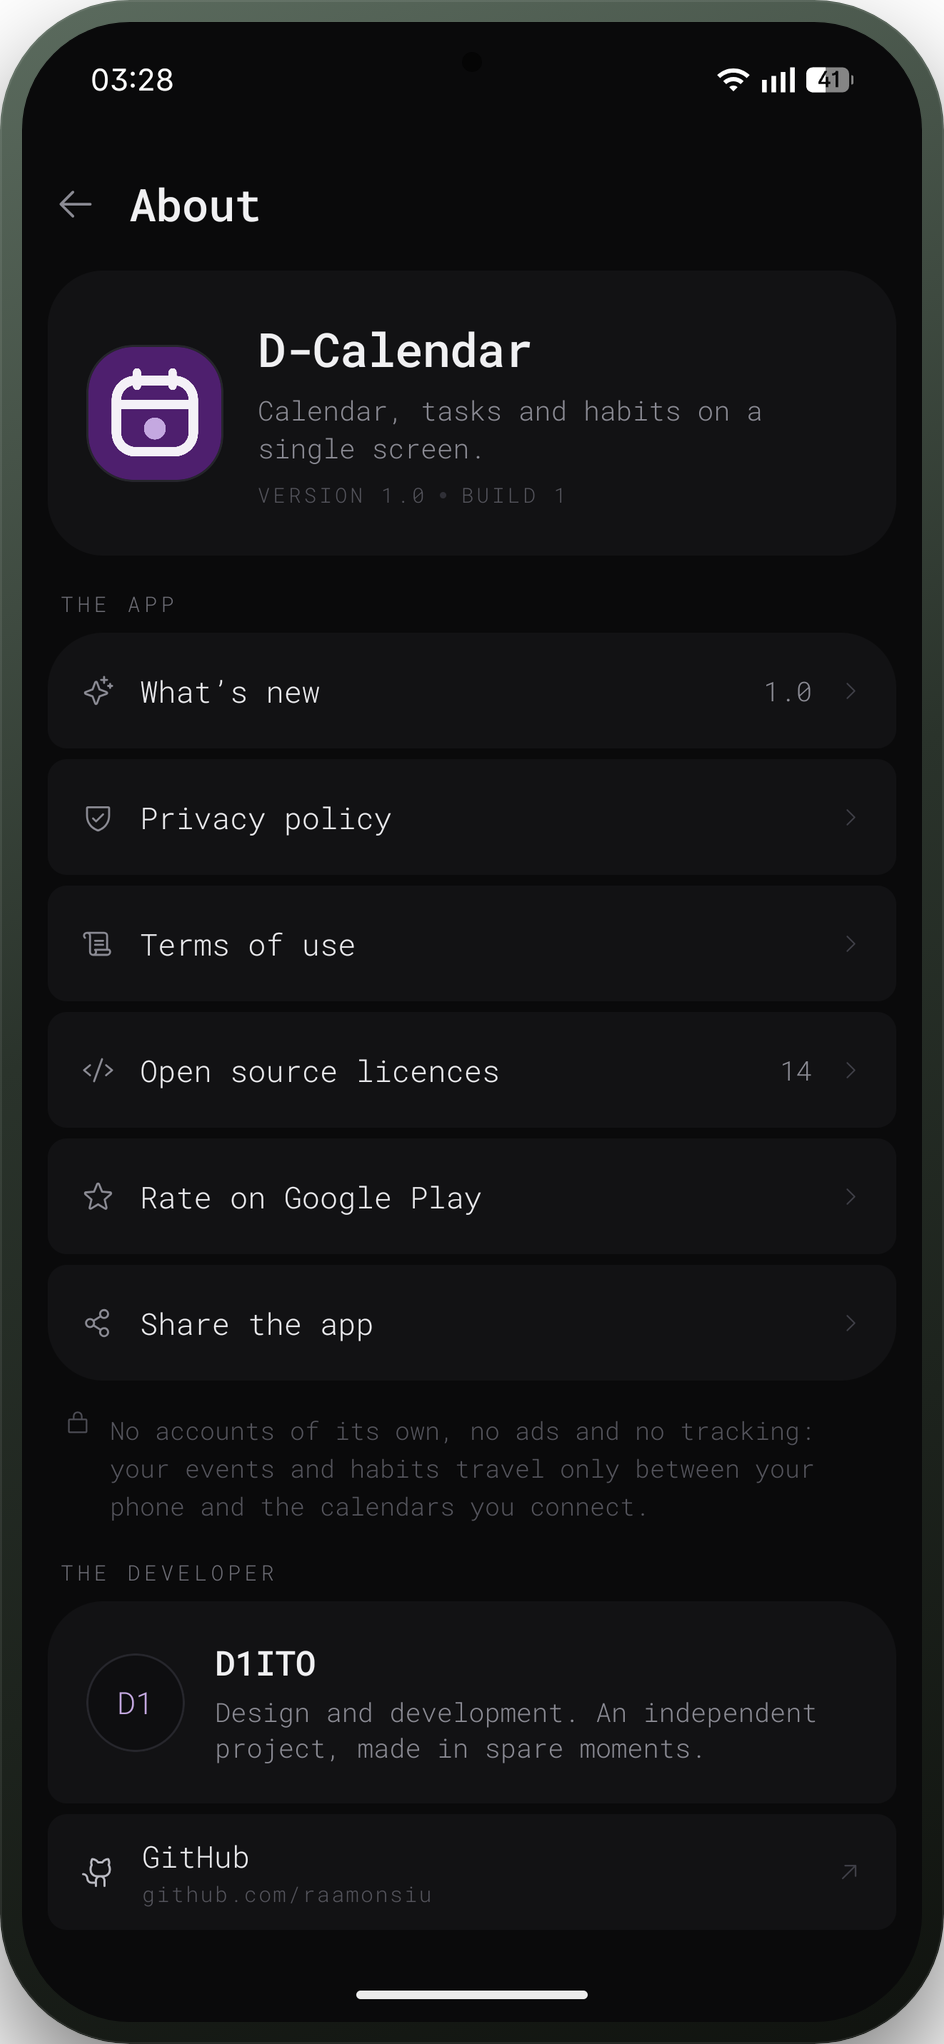
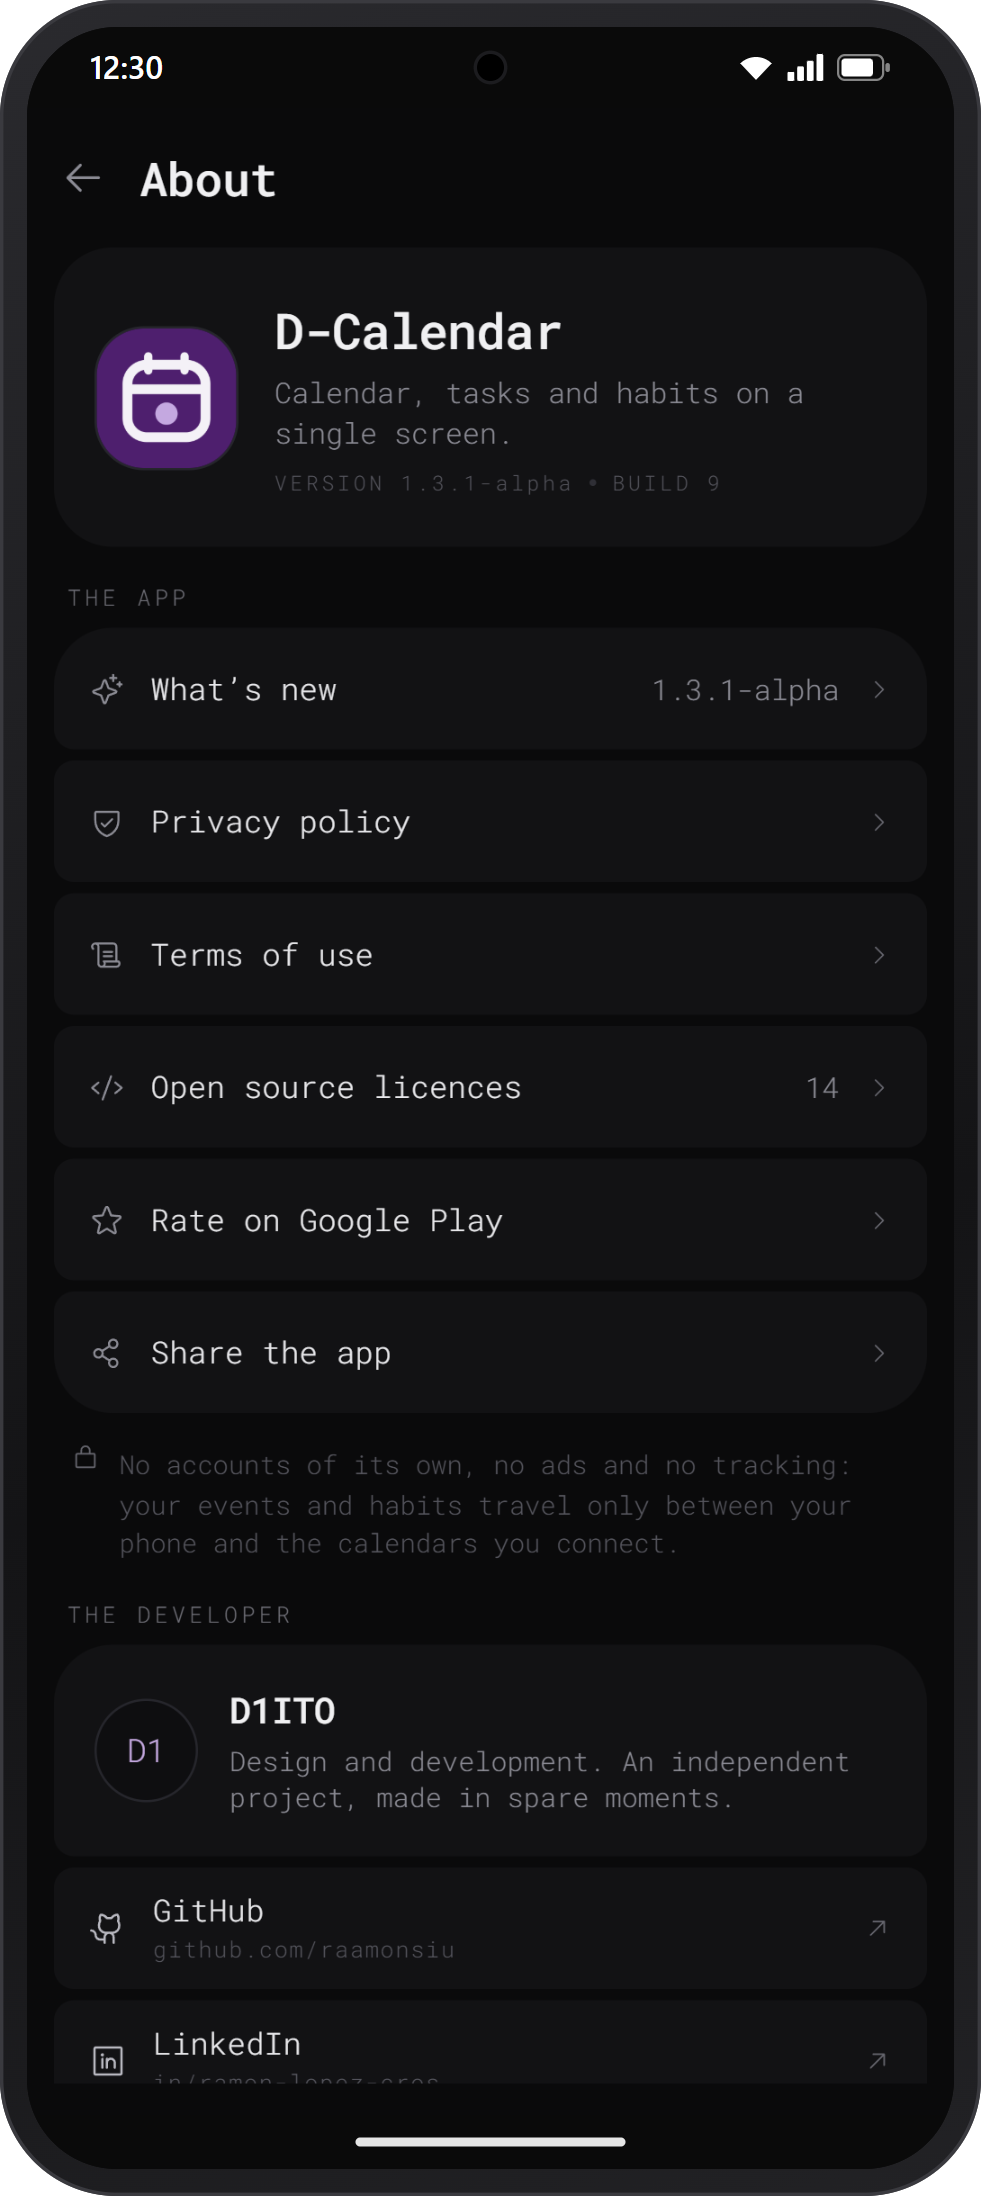
DC-DOCS/ Retake the README screenshots on 1.3.1-alpha

diff --git a/docs/screenshots/README.md b/docs/screenshots/README.md
@@ -13,6 +13,6 @@ the README references them by path:
 | `help.png` | Help and feedback |
 | `about.png` | About (not in the README grid, kept for release notes) |
 
-Taken on a 412×892 device, which is the size the design is laid out for.
-Replace them from the same device when the interface changes, so the six keep
-looking like one set.
+Taken at 412×892, which is the size the design is laid out for, from the web
+build of the app, and set in the same phone frame. Replace them the same way
+when the interface changes, so the six keep looking like one set.
